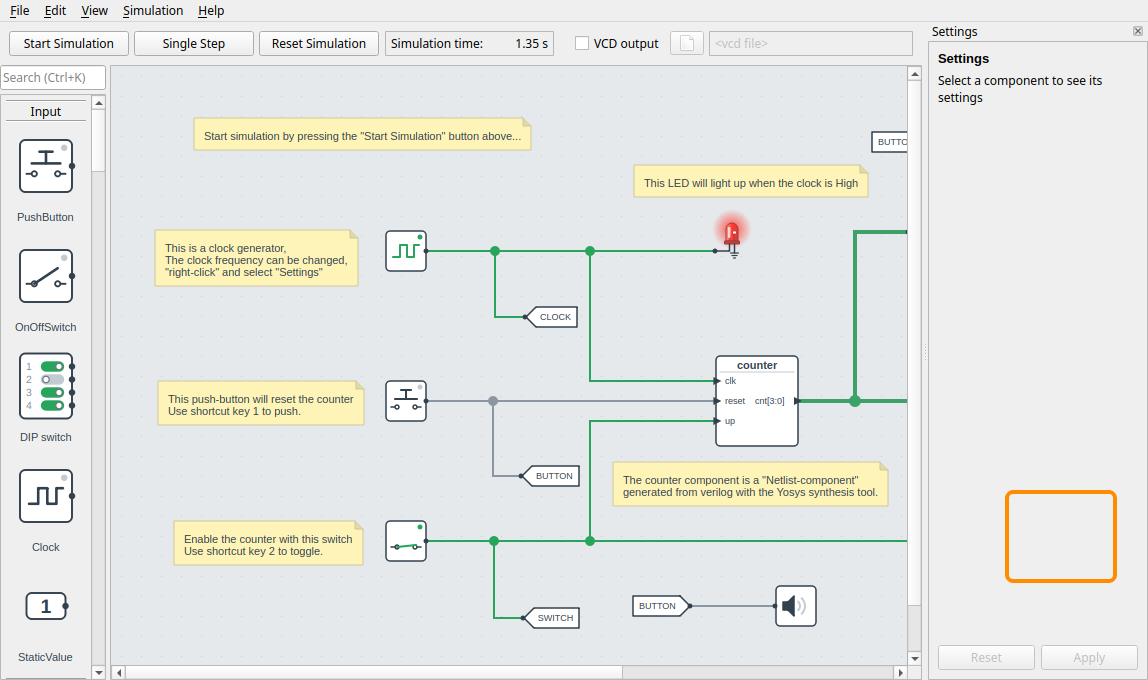
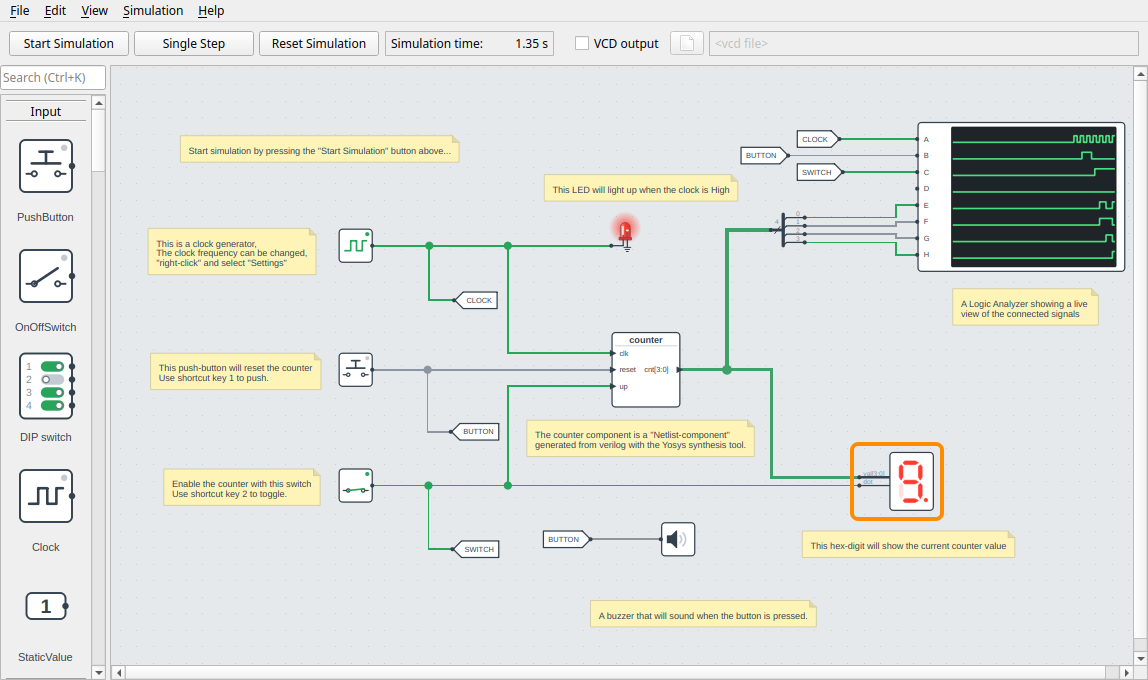
Show all of the counter circuit in the Verilog tutorial screenshots
The circuit was cut off at the right edge of the window.

diff --git a/docs/scripts/generate_verilog_tutorial.py b/docs/scripts/generate_verilog_tutorial.py
@@ -100,6 +100,9 @@ class Tutorial:
         spin(300)
         self.model.load_circuit(circuit)
         spin(300)
+        # All of the circuit
+        self.area.zoom_fit()
+        spin(300)
 
     def component(self, name: str) -> ComponentObject:
         for component_object in self.model.objects.get_list():
